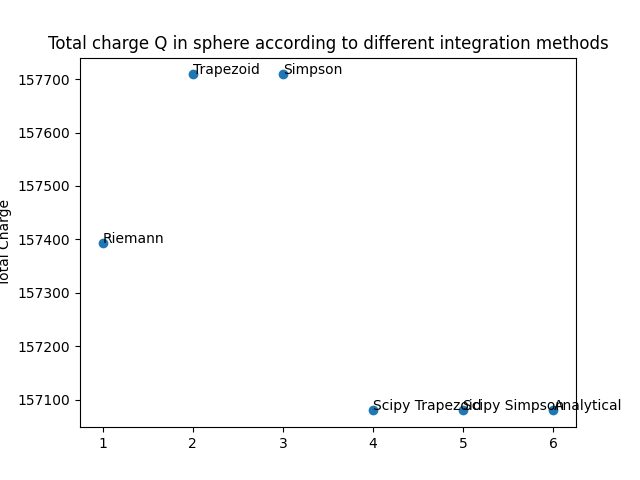
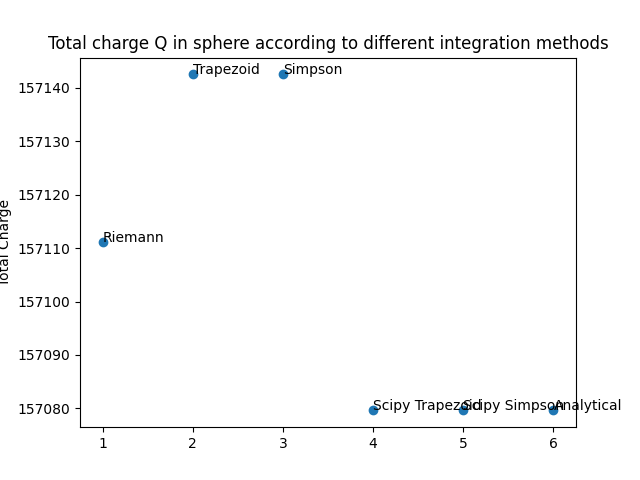
final changes

diff --git a/project_one/ode_solver.py b/project_one/ode_solver.py
@@ -7,7 +7,7 @@ import numpy as np
 import scipy as sp
 from scipy.integrate import odeint
 
-k = 3.0  # k is a positive constant related to the type of material and size of the object
+k = 3.0 # k is a positive constant related to the type of material and size of the object
 
 
 def func(t, y, temp_env):

diff --git a/project_one/integral_solver.py b/project_one/integral_solver.py
@@ -11,7 +11,7 @@ import numpy as np
 k = 5
 
 
-# The equation to integrate over is rho(r) * r**2 * dr because we are integrating in spherical coordinates
+# The equation to integrate over is rho(r) * r**3 * dr because we are integrating in spherical coordinates
 def rho(r):
     return k * (r**3)
 
